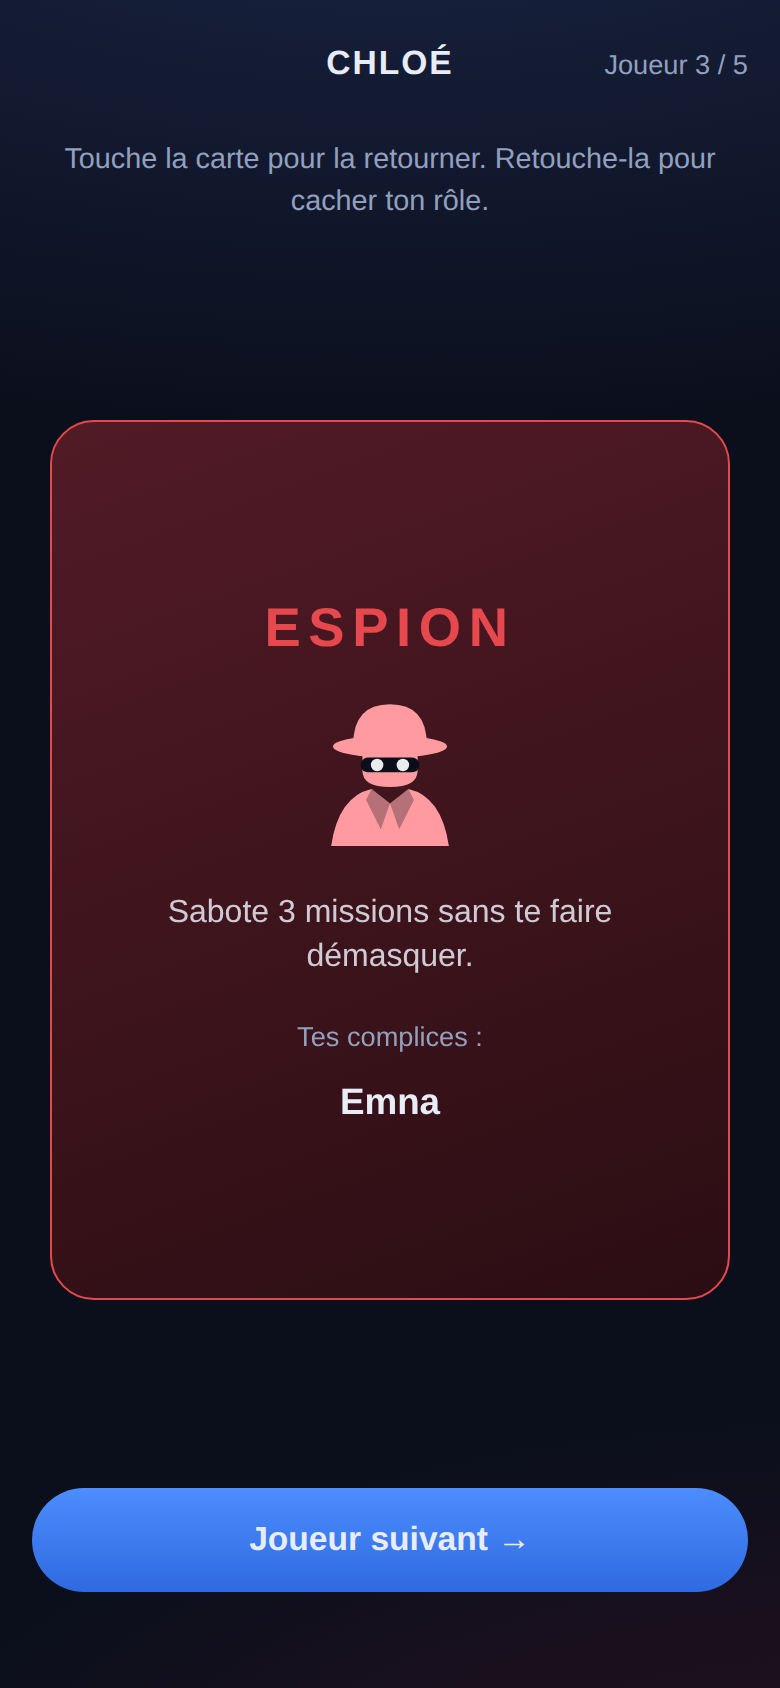
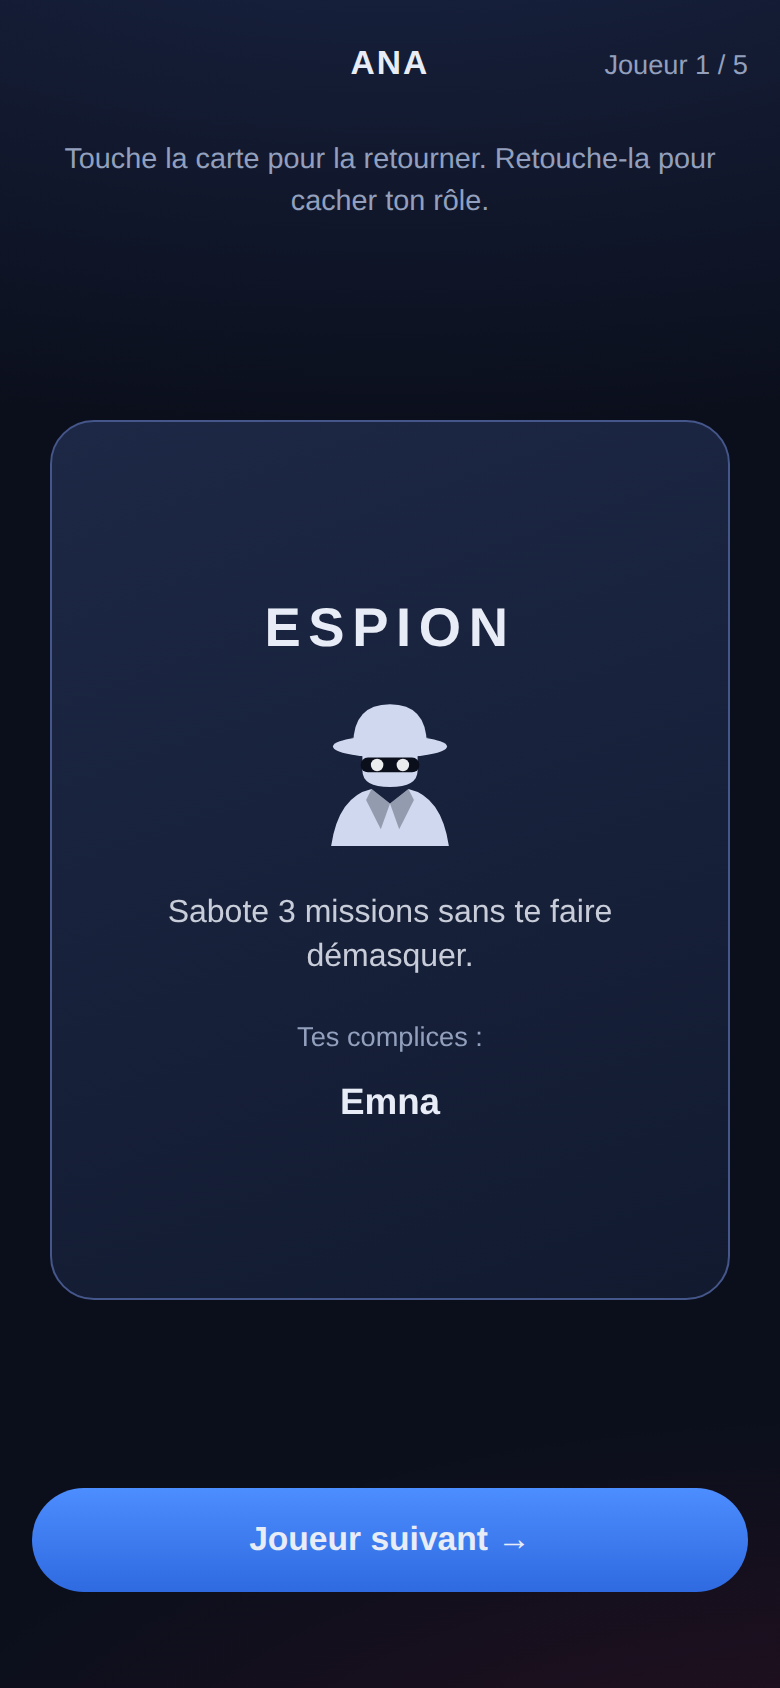
Anti-observation : écrans identiques pour tous les rôles
Un joueur pouvait deviner le camp d'un autre en le regardant jouer :
carte Échec grisée chez les résistants, position du doigt révélatrice,
cartes de rôle rouge/bleue repérables à distance.

- Choix de mission : deux cartes neutres identiques pour tout le monde,
  plus aucun état désactivé ; l'ordre Succès/Échec est tiré au sort pour
  chaque joueur (la position du doigt ne dit plus rien).
- Règle officielle appliquée en silence : une carte Échec jouée par un
  résistant est comptée comme un Succès (rappel affiché pour tous).
- Cartes de rôle sur fond neutre unique : seul le texte, lisible de
  près, distingue Résistance / Espion / Commandant.
- Tests : équipe 100 % résistante qui touche Échec → missions quand
  même réussies ; aucune carte désactivée ; sélection Échec possible
  pour un résistant mais comptée Succès.
- Cache du service worker en v5.

Claude-Session: https://claude.ai/code/session_01JPXwtAPd76jqgUSm7TX1WG

diff --git a/js/app.js b/js/app.js
@@ -94,6 +94,7 @@
       missionIdx: 0,
       missionStage: 'pass', // pass | pick
       missionPick: null,
+      missionSwap: false, // ordre aléatoire des deux cartes (anti-observation)
       missionChoices: [],
       revealCards: [],
       assassinPick: null,
@@ -704,28 +705,34 @@
         '</section>';
     }
 
-    // Stage « pick »
-    var isRes = p.role === 'res';
+    // Stage « pick ». L'écran est STRICTEMENT identique quel que soit le
+    // rôle : mêmes cartes neutres pour tous, ordre mélangé par joueur, et
+    // aucun état désactivé — un Échec joué par un résistant sera simplement
+    // compté comme un Succès (règle officielle). Impossible de deviner le
+    // camp de quelqu'un en le regardant jouer.
     var pick = game.missionPick; // null | true (succès) | false (échec)
     var confirmBar = pick === null ? '' :
       '<div class="confirm-bar">' +
       '  <button class="btn btn-ghost" data-action="pickChange">' + t('mission.change') + '</button>' +
       '  <button class="btn btn-primary" data-action="pickConfirm">' + t('mission.confirm') + '</button>' +
       '</div>';
+    var successCard =
+      '<button class="mcard neutral' + (pick === true ? ' picked' : '') + (pick === false ? ' dim' : '') + '"' +
+      '  data-action="pickSuccess">' +
+      '  <span class="mcard-icon">' + ICONS.fist + '</span>' + t('mission.success') + '</button>';
+    var failCard =
+      '<button class="mcard neutral' + (pick === false ? ' picked' : '') + (pick === true ? ' dim' : '') + '"' +
+      '  data-action="pickFail">' +
+      '  <span class="mcard-icon">' + ICONS.spy + '</span>' + t('mission.fail') + '</button>';
     return '' +
       '<section class="phase center-phase">' +
       '  <p class="progress">' + pos + ' — ' + esc(p.name) + '</p>' +
       '  <h3>' + t('mission.pick') + '</h3>' +
       '  <p class="hint center">' + t('mission.pickHint') + '</p>' +
       '  <div class="mission-cards">' +
-      '    <button class="mcard success' + (pick === true ? ' picked' : '') + (pick === false ? ' dim' : '') + '"' +
-      '      data-action="pickSuccess">' +
-      '      <span class="mcard-icon">' + ICONS.fist + '</span>' + t('mission.success') + '</button>' +
-      '    <button class="mcard fail' + (pick === false ? ' picked' : '') + (pick === true ? ' dim' : '') + '"' +
-      '      data-action="pickFail"' + (isRes ? ' disabled' : '') + '>' +
-      '      <span class="mcard-icon">' + ICONS.spy + '</span>' + t('mission.fail') + '</button>' +
+      (game.missionSwap ? failCard + successCard : successCard + failCard) +
       '  </div>' +
-      (isRes ? '<p class="hint center">' + t('mission.resOnly') + '</p>' : '') +
+      '  <p class="hint center">' + t('mission.rule') + '</p>' +
       confirmBar +
       '</section>';
   }
@@ -954,19 +961,25 @@
     },
     afterVote: function () { afterVoteResult(); },
 
-    missionImHere: function () { g().missionStage = 'pick'; g().missionPick = null; save(); },
-    pickSuccess: function () { g().missionPick = true; },
-    pickFail: function () {
-      var memberIdx = g().team[g().missionIdx];
-      if (g().players[memberIdx].role === 'res') return; // la Résistance ne peut pas saboter
-      g().missionPick = false;
+    missionImHere: function () {
+      g().missionStage = 'pick';
+      g().missionPick = null;
+      // Ordre des deux cartes tiré au sort pour ce joueur : la position du
+      // doigt ne révèle rien à ceux qui regardent.
+      g().missionSwap = Math.random() < 0.5;
+      save();
     },
+    pickSuccess: function () { g().missionPick = true; },
+    pickFail: function () { g().missionPick = false; },
     pickChange: function () { g().missionPick = null; },
     pickConfirm: function () {
-      if (g().missionPick === null) return;
-      // Enchaîne directement sur l'écran neutre « passe le téléphone »
-      // du joueur suivant (ou sur la révélation des cartes).
-      recordMissionChoice(g().missionPick);
+      var game = g();
+      if (game.missionPick === null) return;
+      var member = game.players[game.team[game.missionIdx]];
+      // Règle officielle appliquée en silence : un résistant joue toujours
+      // Succès, quel que soit son geste — écran identique pour tous.
+      var success = member.role === 'res' ? true : game.missionPick;
+      recordMissionChoice(success);
     },
     flipCard: function (el) {
       var i = parseInt(el.getAttribute('data-idx'), 10);

diff --git a/tests/e2e.js b/tests/e2e.js
@@ -92,19 +92,18 @@ async function main() {
     await click('[data-action="afterVote"]');
   }
 
-  // Joue la mission : les espions de l'équipe sabotent si `spiesFail`.
-  async function runMission(spiesFail) {
+  // Joue la mission : les espions sabotent si `spiesFail` ; si
+  // `resTapFail`, les résistants TOUCHENT aussi Échec (qui doit être
+  // compté comme Succès par la règle officielle).
+  async function runMission(spiesFail, resTapFail) {
     let st = await state();
     const teamLen = st.game.team.length;
     for (let k = 0; k < teamLen; k++) {
       st = await state();
       const member = st.game.players[st.game.team[st.game.missionIdx]];
       await click('[data-action="missionImHere"]');
-      if (member.role === 'spy' && spiesFail) {
-        await click('[data-action="pickFail"]');
-      } else {
-        await click('[data-action="pickSuccess"]');
-      }
+      const tapFail = member.role === 'spy' ? spiesFail : !!resTapFail;
+      await click(tapFail ? '[data-action="pickFail"]' : '[data-action="pickSuccess"]');
       await click('[data-action="pickConfirm"]');
     }
     // Révélation des cartes.
@@ -162,22 +161,25 @@ async function main() {
     if (round === 0) await shot('05-vote');
     await voteAll('up', true);
     if (round === 0) {
+      // Membre 1 : l'espion sabote (avec test du bouton « changer »).
       await click('[data-action="missionImHere"]');
       await shot('06-mission-choix');
-      // La carte Échec doit être inerte pour un résistant.
-      const member = st.game.players[team[0]];
-      if (member.role === 'res') {
-        await click('[data-action="pickFail"]');
-        const s2 = await state();
-        assert.strictEqual(s2.game.missionPick, null, 'un résistant ne peut pas saboter');
-      }
+      // Écran identique pour tous : aucune carte ne doit être désactivée.
+      assert.strictEqual(await page.locator('.mcard[disabled]').count(), 0, 'aucune carte désactivée');
       await click('[data-action="pickSuccess"]');
-      await click('[data-action="pickChange"]');   // test du bouton « changer »
-      if (member.role === 'spy') await click('[data-action="pickFail"]');
-      else await click('[data-action="pickSuccess"]');
+      await click('[data-action="pickChange"]');
+      await click('[data-action="pickFail"]');
       await click('[data-action="pickConfirm"]');
-      // Les membres restants.
+      // Membre 2 : le résistant TOUCHE Échec — la règle doit le compter Succès.
+      await click('[data-action="missionImHere"]');
+      await click('[data-action="pickFail"]');
+      let s2 = await state();
+      assert.strictEqual(s2.game.missionPick, false, 'le résistant peut sélectionner Échec');
+      await click('[data-action="pickConfirm"]');
       let s3 = await state();
+      assert.deepStrictEqual(s3.game.missionChoices, [false, true],
+        'le geste Échec d’un résistant est compté comme Succès');
+      // Les membres restants (aucun pour une équipe de 2).
       while (s3.game.phase === 'mission') {
         const m = s3.game.players[s3.game.team[s3.game.missionIdx]];
         await click('[data-action="missionImHere"]');
@@ -236,10 +238,13 @@ async function main() {
   for (let round = 0; round < 3; round++) {
     await pickTeam(resOnly.slice(0, [2, 3, 2][round]));
     await voteAll('up', true);
-    await runMission(true); // aucun espion dans l'équipe → succès garanti
+    // Équipe 100 % résistante qui TOUCHE Échec : la règle officielle doit
+    // compter chaque carte comme un Succès.
+    await runMission(true, true);
     await click('[data-action="missionDone"]');
     st = await state();
-    assert.strictEqual(st.game.missions[round].result, 'success');
+    assert.strictEqual(st.game.missions[round].result, 'success',
+      'mission réussie malgré des gestes Échec résistants');
   }
   st = await state();
   assert.strictEqual(st.screen, 'gameover');

diff --git a/css/style.css b/css/style.css
@@ -272,22 +272,20 @@ body {
   font-size: 1.3rem;
 }
 
-.role-front.res { background: linear-gradient(160deg, #17335f, #0e2242); border: 1.5px solid var(--blue); }
-.role-front.spy { background: linear-gradient(160deg, #521b26, #2b0d13); border: 1.5px solid var(--red); }
-.role-front.commander { background: linear-gradient(160deg, #2d2258, #171034); border: 1.5px solid var(--purple); }
-.role-title { font-size: 1.7rem; font-weight: 800; letter-spacing: 0.14em; }
-.role-front.res .role-title { color: var(--blue); }
-.role-front.spy .role-title { color: var(--red); }
-.role-front.commander .role-title { color: #a78bfa; }
+/* Faces de rôle volontairement IDENTIQUES pour tous les camps : aucune
+   couleur repérable de loin — seul le texte (lisible de près) diffère. */
+.role-front.res, .role-front.spy, .role-front.commander {
+  background: linear-gradient(160deg, #1d2846, #111a2f);
+  border: 1.5px solid #45568a;
+}
+.role-title { font-size: 1.7rem; font-weight: 800; letter-spacing: 0.14em; color: var(--text); }
 .role-icon { font-size: 3.4rem; }
 .role-icon svg { width: 92px; height: 92px; display: block; }
-.role-front.res .role-icon { color: #9cc2ff; }
-.role-front.spy .role-icon { color: #ff9ba0; }
-.role-front.commander .role-icon { color: #c4b5fd; }
+.role-front .role-icon { color: #cfd8ee; }
 .role-badge {
   display: inline-block;
-  border: 1.5px solid var(--red);
-  color: #ffb3b6;
+  border: 1.5px solid #45568a;
+  color: #cfd8ee;
   border-radius: 999px;
   padding: 3px 12px;
   font-size: 0.72rem;
@@ -410,10 +408,12 @@ body {
 .mcard:active { transform: scale(0.97); }
 .mcard-icon { font-size: 2.6rem; }
 .mcard-icon svg { width: 58px; height: 58px; display: block; }
-.mcard.success .mcard-icon { color: #9cc2ff; }
-.mcard.fail .mcard-icon { color: #ff9ba0; }
-.mcard.success { background: linear-gradient(160deg, #17335f, #0e2242); border: 2px solid var(--blue); }
-.mcard.fail { background: linear-gradient(160deg, #521b26, #2b0d13); border: 2px solid var(--red); }
+/* Cartes de mission neutres : même apparence exacte pour les deux choix. */
+.mcard.neutral {
+  background: linear-gradient(160deg, #1c2440, #131b30);
+  border: 2px solid #3b4a74;
+}
+.mcard.neutral .mcard-icon { color: #cfd8ee; }
 .mcard.picked { box-shadow: 0 0 0 4px rgba(255, 255, 255, 0.18); }
 .mcard.dim { opacity: 0.35; }
 .mcard:disabled { opacity: 0.25; cursor: default; }

diff --git a/js/i18n.js b/js/i18n.js
@@ -83,7 +83,7 @@ var I18N = {
     'mission.pickHint': 'Cache bien ton écran.',
     'mission.success': 'SUCCÈS',
     'mission.fail': 'ÉCHEC',
-    'mission.resOnly': 'La Résistance joue toujours Succès.',
+    'mission.rule': 'Rappel : une carte Échec jouée par un résistant compte comme un Succès.',
     'mission.confirm': 'Valider ce choix',
     'mission.change': 'Changer',
     'mission.revealTitle': 'Résultat de la mission {i}',
@@ -218,7 +218,7 @@ var I18N = {
     'mission.pickHint': 'Shield your screen.',
     'mission.success': 'SUCCESS',
     'mission.fail': 'SABOTAGE',
-    'mission.resOnly': 'Resistance members always play Success.',
+    'mission.rule': 'Reminder: a Sabotage card played by a Resistance member counts as Success.',
     'mission.confirm': 'Confirm choice',
     'mission.change': 'Change',
     'mission.revealTitle': 'Mission {i} result',

diff --git a/sw.js b/sw.js
@@ -1,5 +1,5 @@
 /* Service worker : mise en cache de l'application pour jouer hors ligne. */
-var CACHE = 'resistance-v4';
+var CACHE = 'resistance-v5';
 var ASSETS = [
   './',
   './index.html',

diff --git a/README.md b/README.md
@@ -23,7 +23,13 @@ compte, aucune donnée collectée.
 - **Vote public** pour approuver ou rejeter chaque équipe.
 - **Missions secrètes** : chaque agent choisit Succès ou Échec sur le
   téléphone, puis on retourne les cartes mélangées — impossible de savoir qui
-  a saboté. La Résistance ne peut pas saboter (règle officielle appliquée).
+  a saboté.
+- **Anti-regards indiscrets** : pendant une mission, l'écran est strictement
+  identique pour tous les rôles (cartes neutres, rien de désactivé), l'ordre
+  des deux cartes est tiré au sort pour chaque joueur (la position du doigt ne
+  révèle rien), et une carte Échec jouée par un résistant est comptée comme un
+  Succès (règle officielle). Les cartes de rôle utilisent aussi un fond neutre
+  illisible à distance.
 - **Options** : variante « espions à l'aveugle », minuteur de discussion
   (3 / 5 / 10 min).
 - **Bilingue** : français 🇫🇷 (par défaut) et anglais 🇬🇧.
